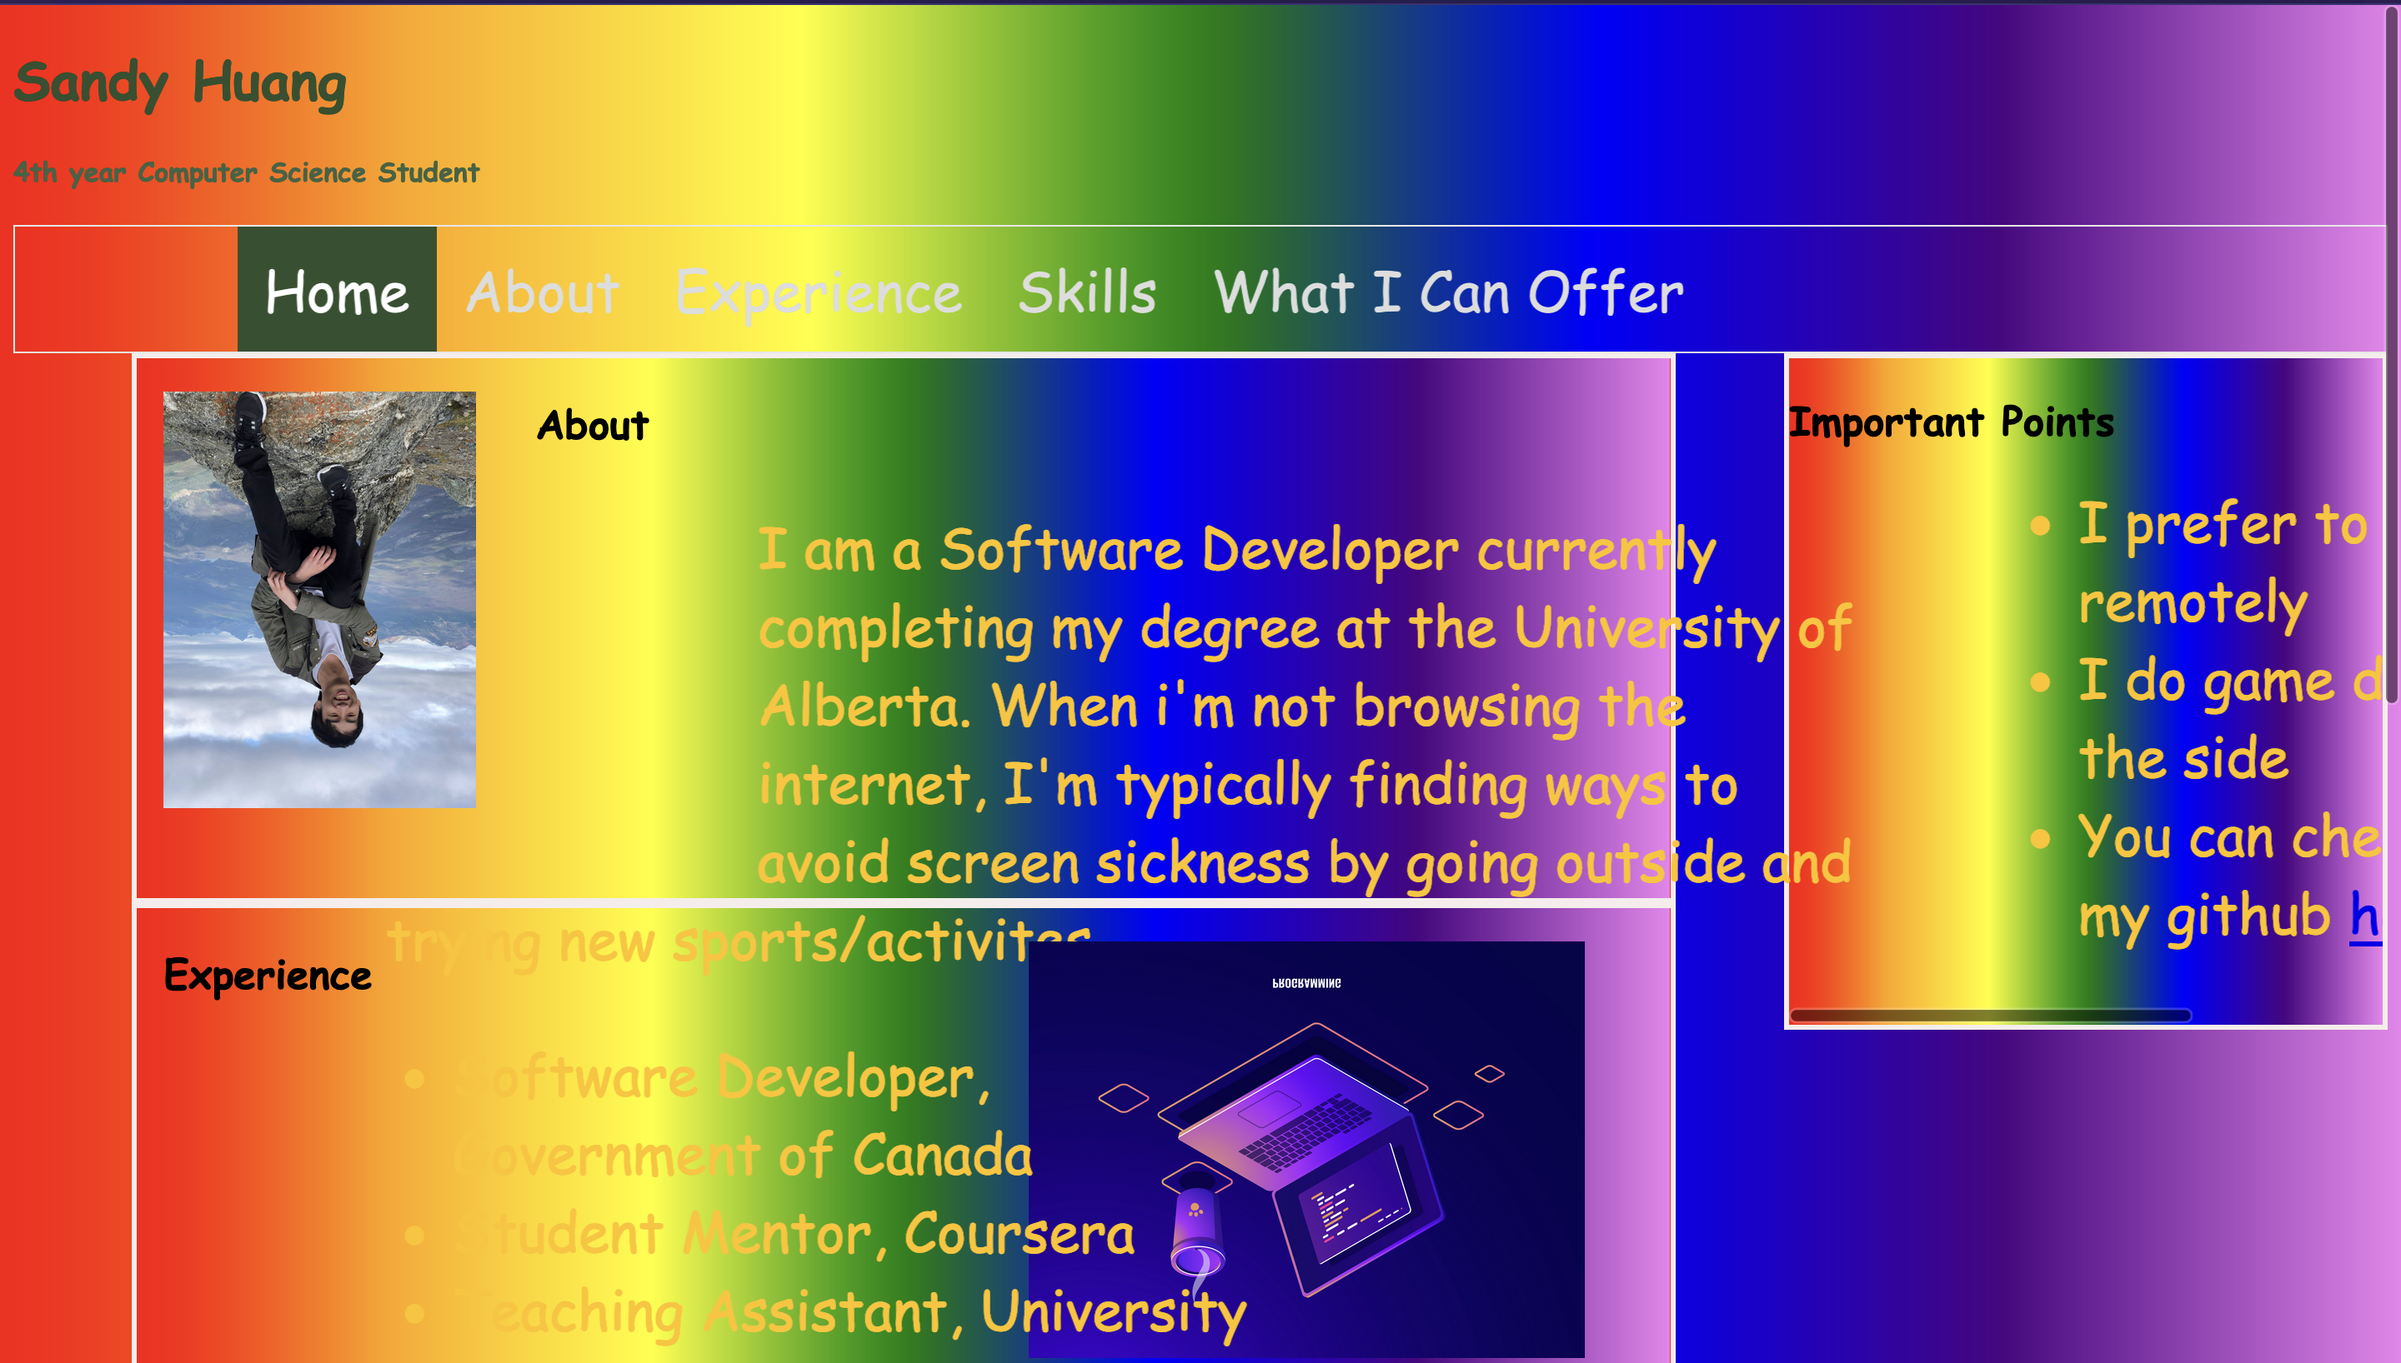
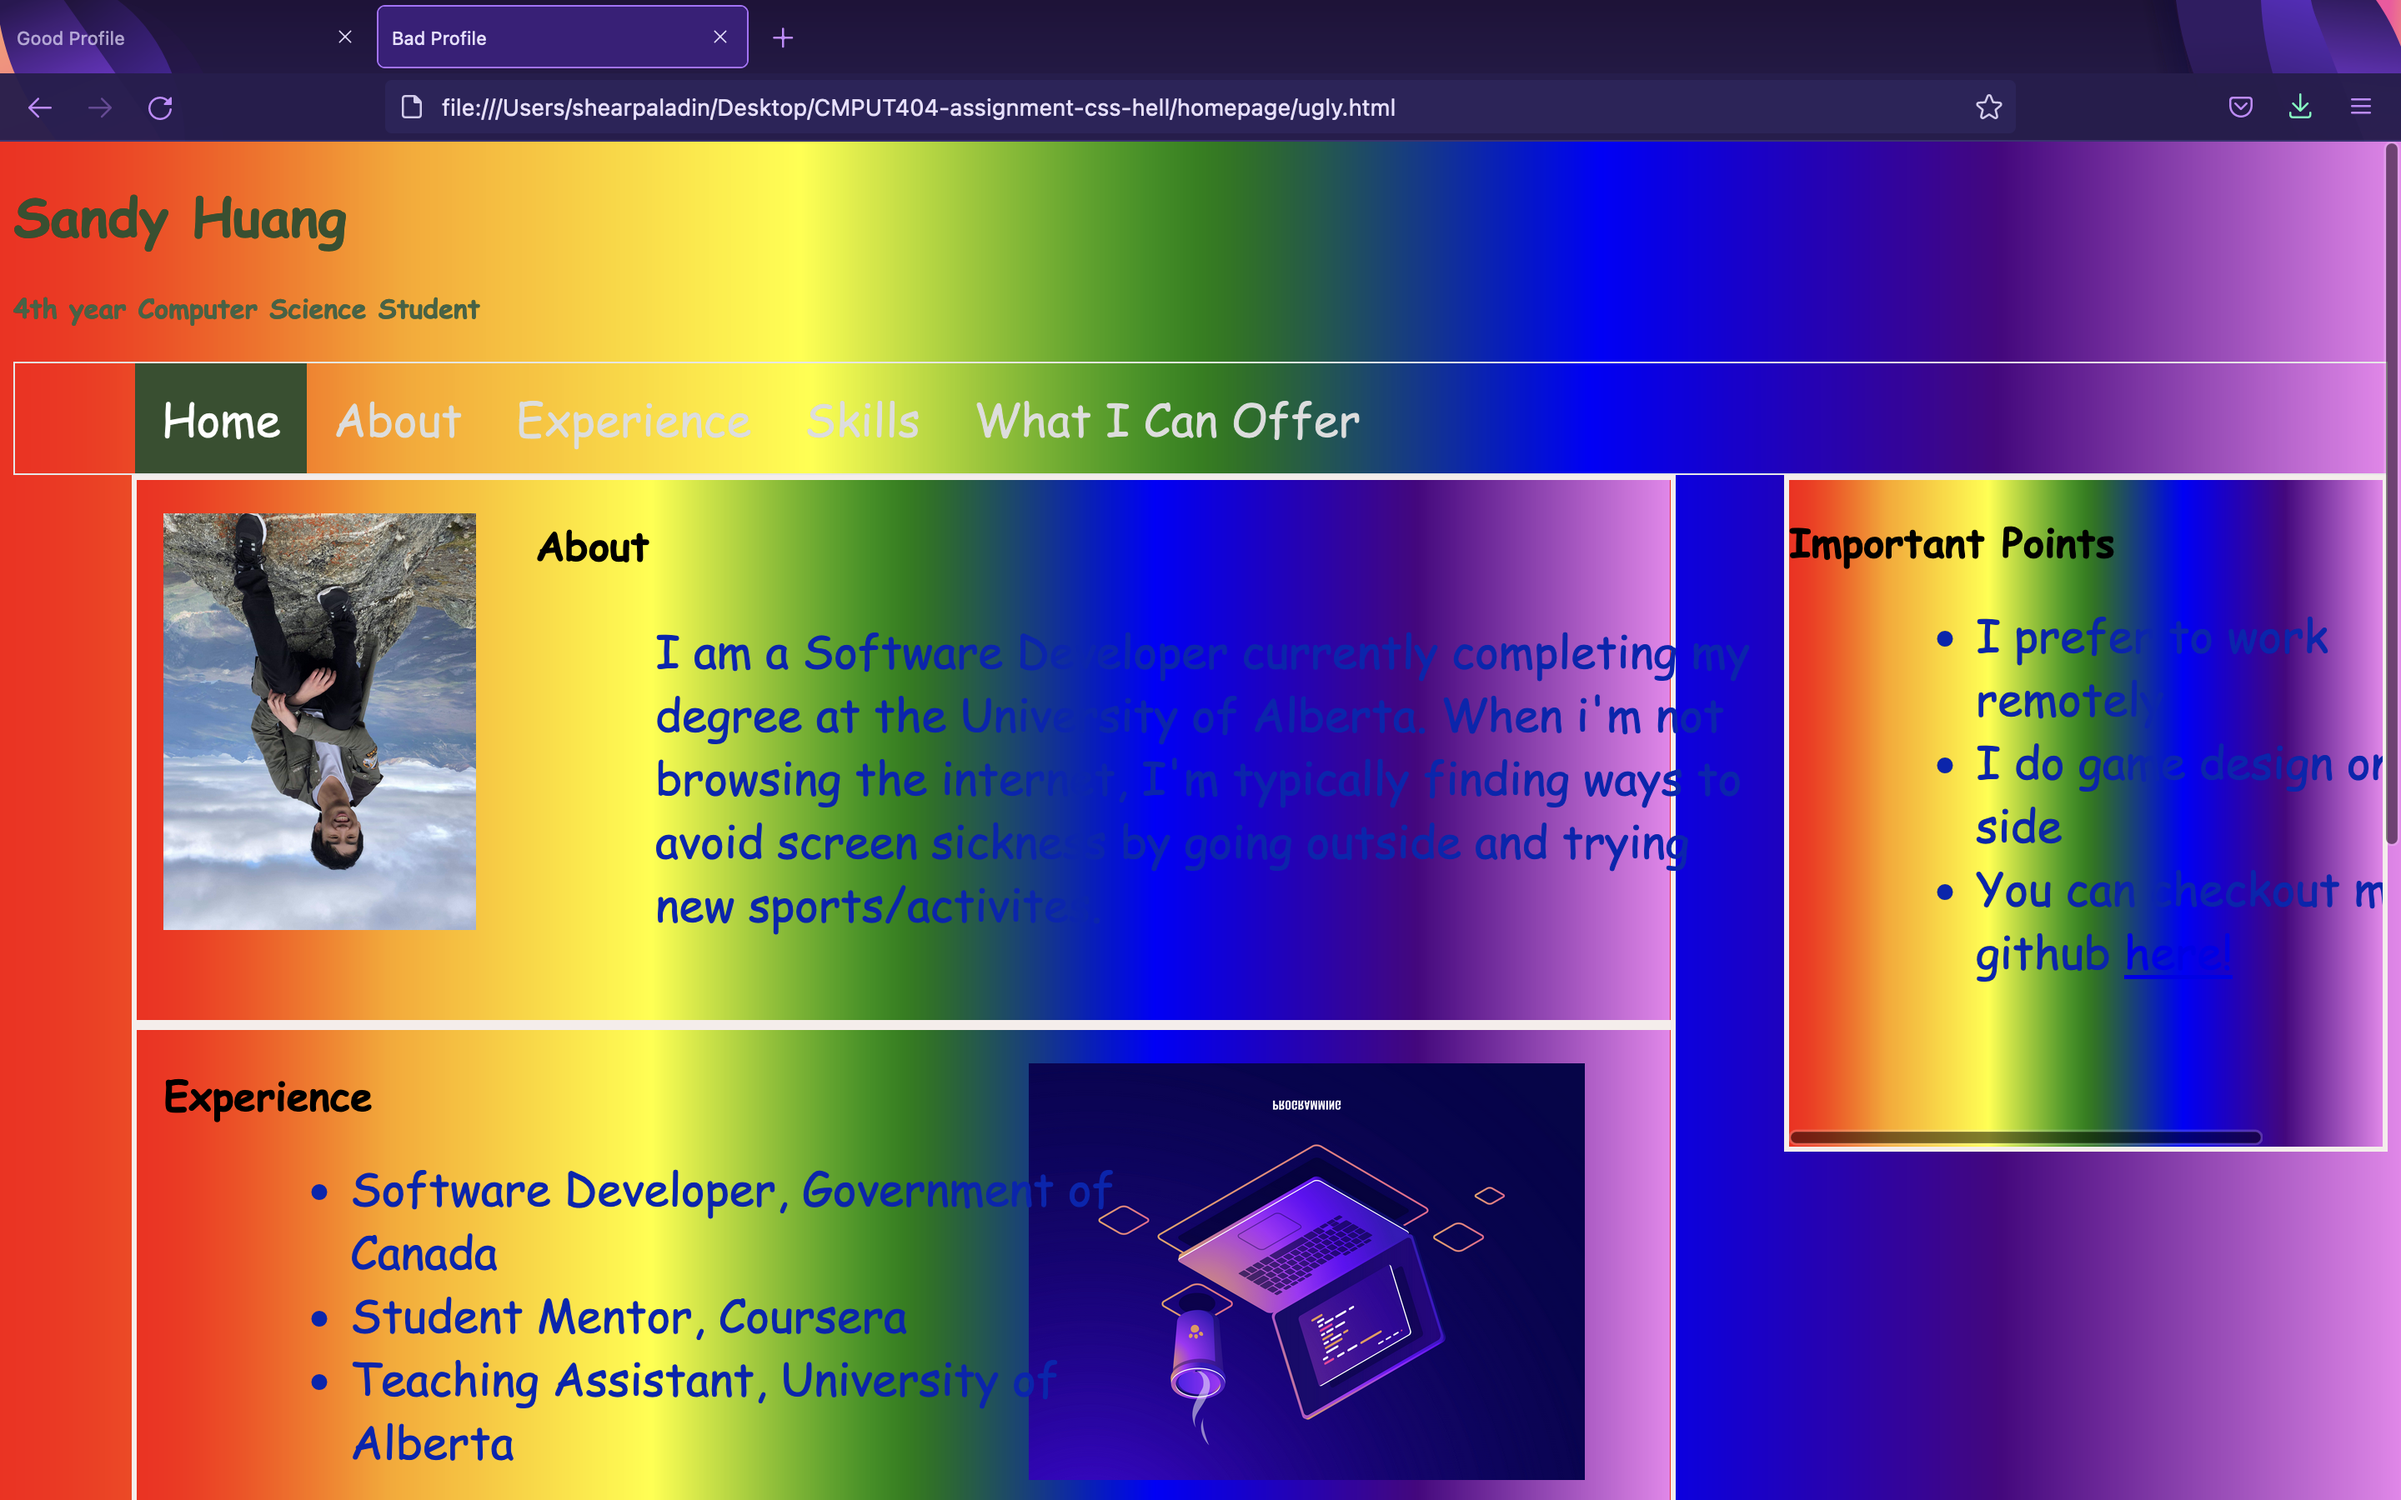
changed file names to match spec

Changed region(s): [[0.0, 0.0, 1.0, 0.6858], [0.0625, 0.3741, 0.7812, 0.9976], [0.7188, 0.717, 1.0, 0.7793]]

diff --git a/homepage/ugly.html b/homepage/ugly.html
@@ -6,7 +6,7 @@
         <meta http-equiv="X-UA-Compatible" content="IE=edge">
         <title>Bad Profile</title>
         <meta name="author" content="Sandy">
-        <link rel="stylesheet" href="bad.css">
+        <link rel="stylesheet" href="ugly.css">
     </head>
     <body>
        <h1>Sandy Huang</h1>

diff --git a/README.md b/README.md
@@ -77,7 +77,7 @@ skills.jpg https://www.freepik.com/free-photo/online-learning-skills-concept-lap
 offer.jpg https://www.freepik.com/free-photo/finger-pressing-circle-with-word-start_944370.htm#page=1&query=new%20tech&position=8&from_view=search
 
 
-BAD HTML
+Ugly HTML
 =================
 
 - flipped images upside down
